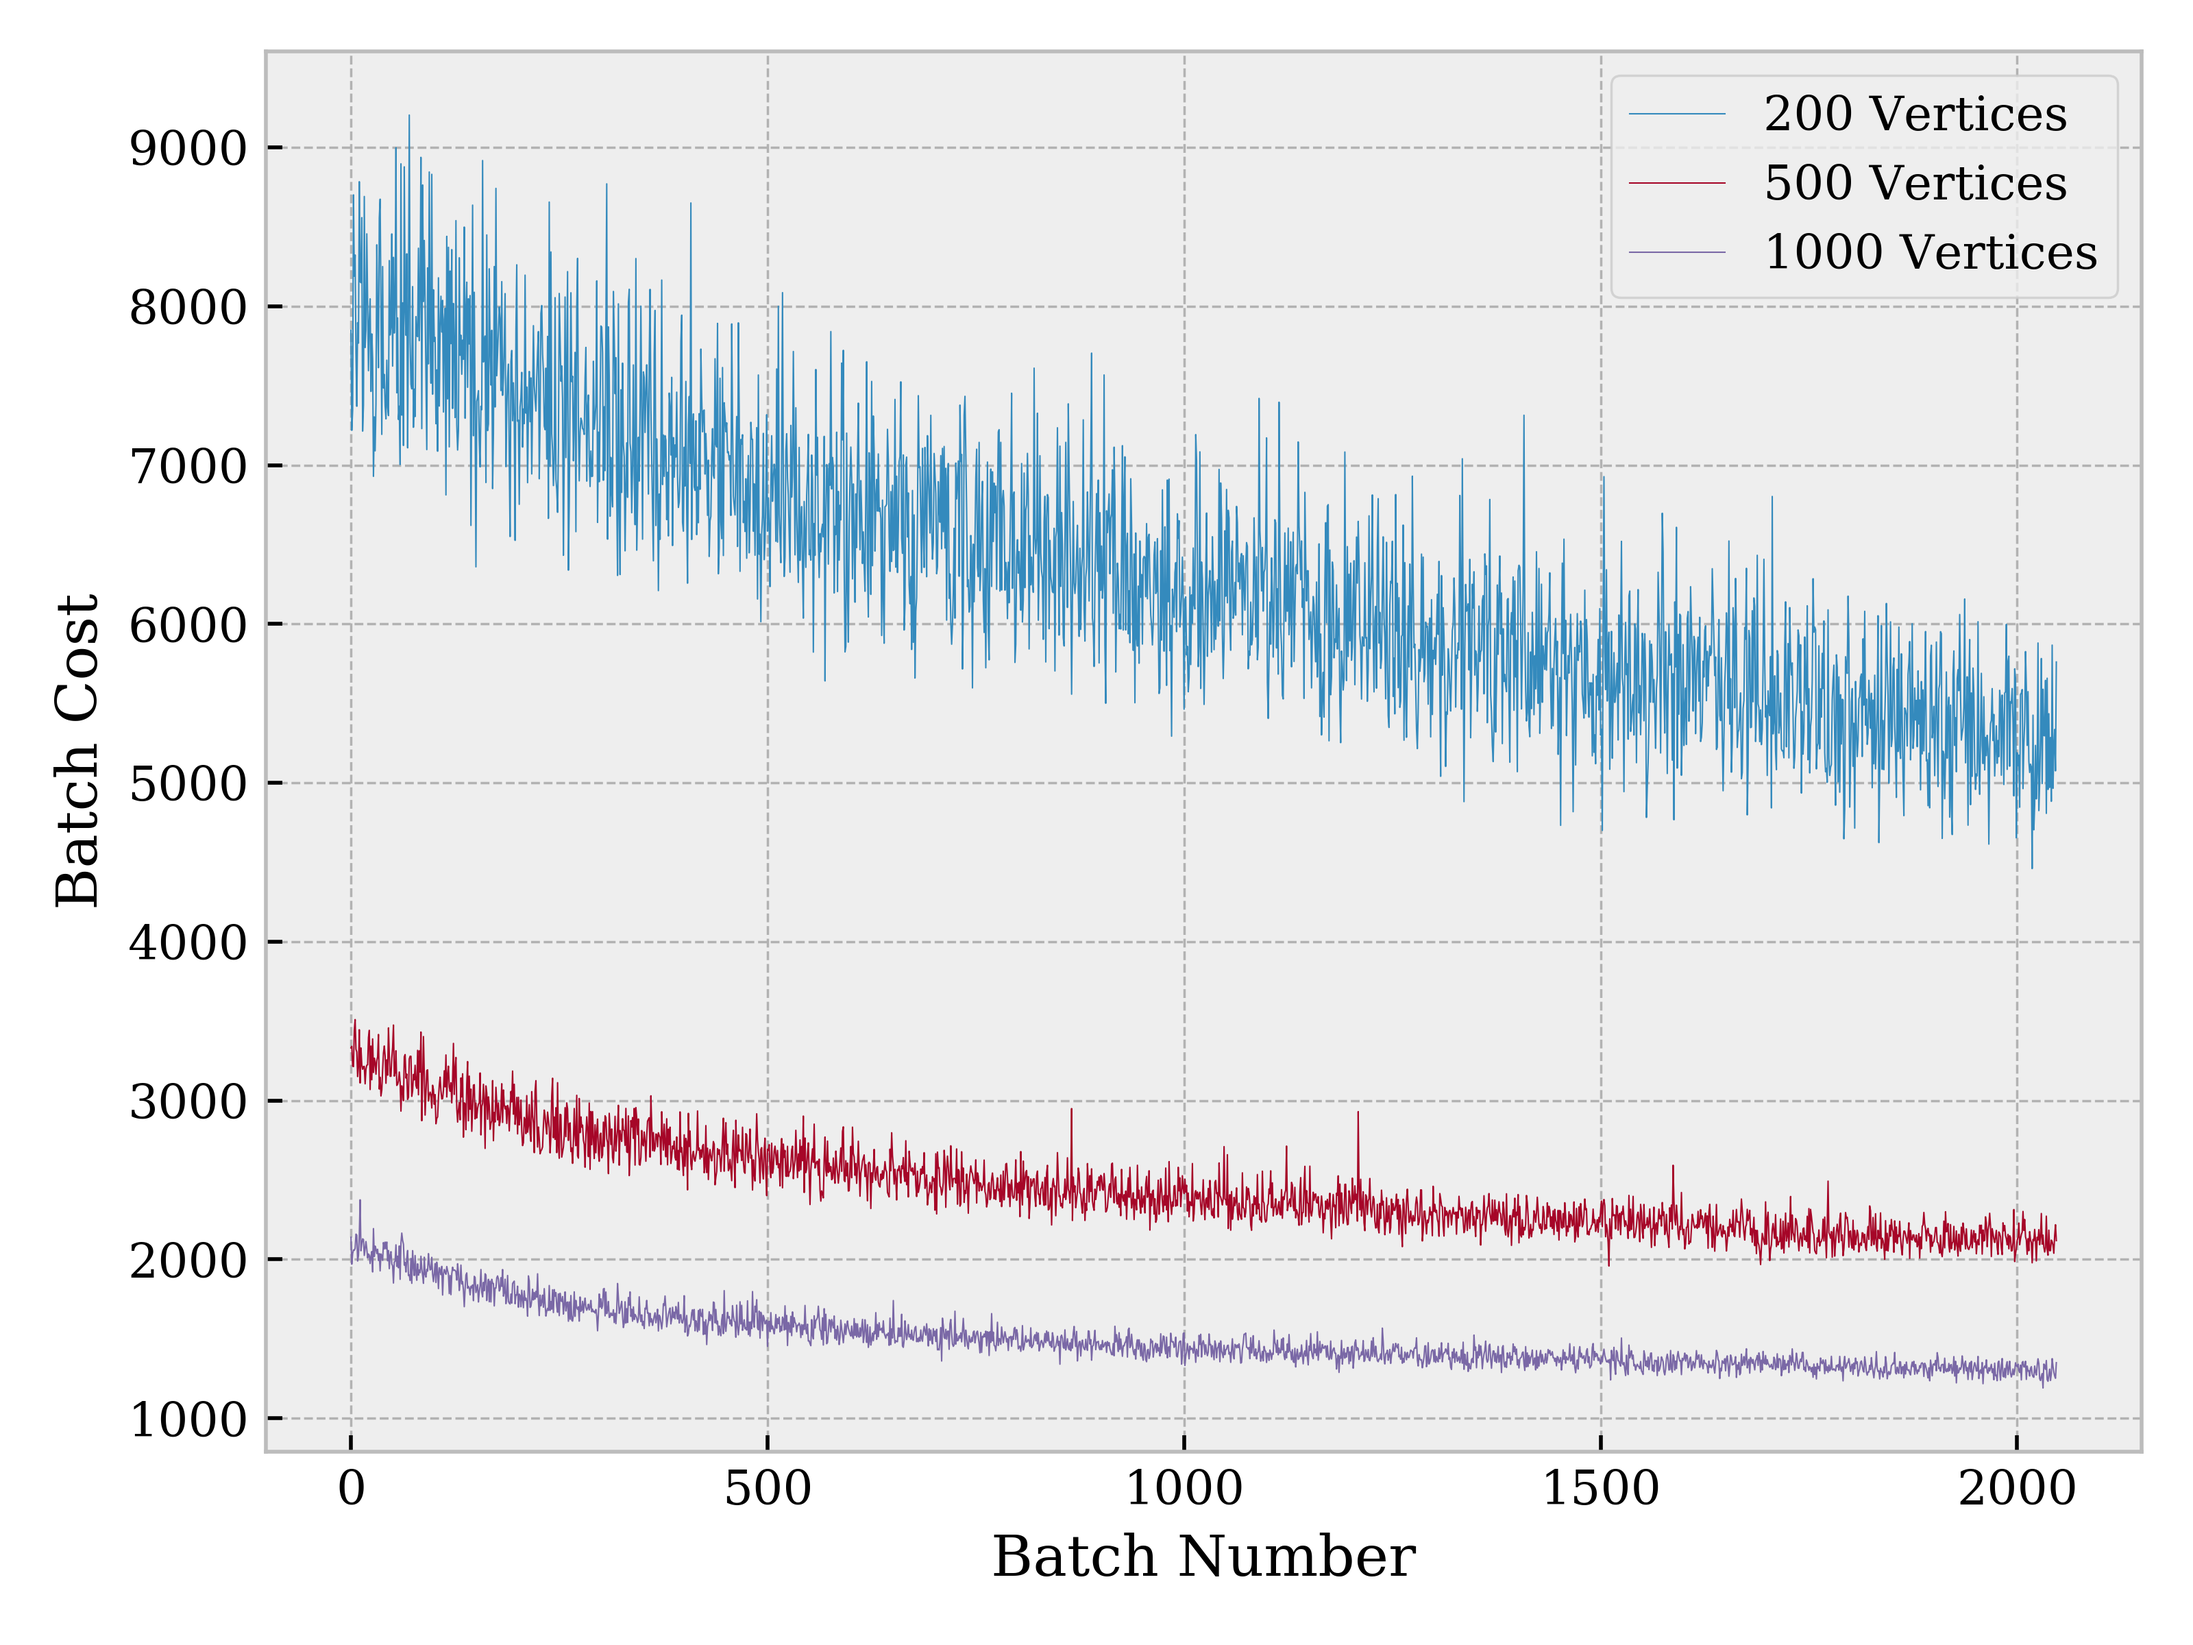
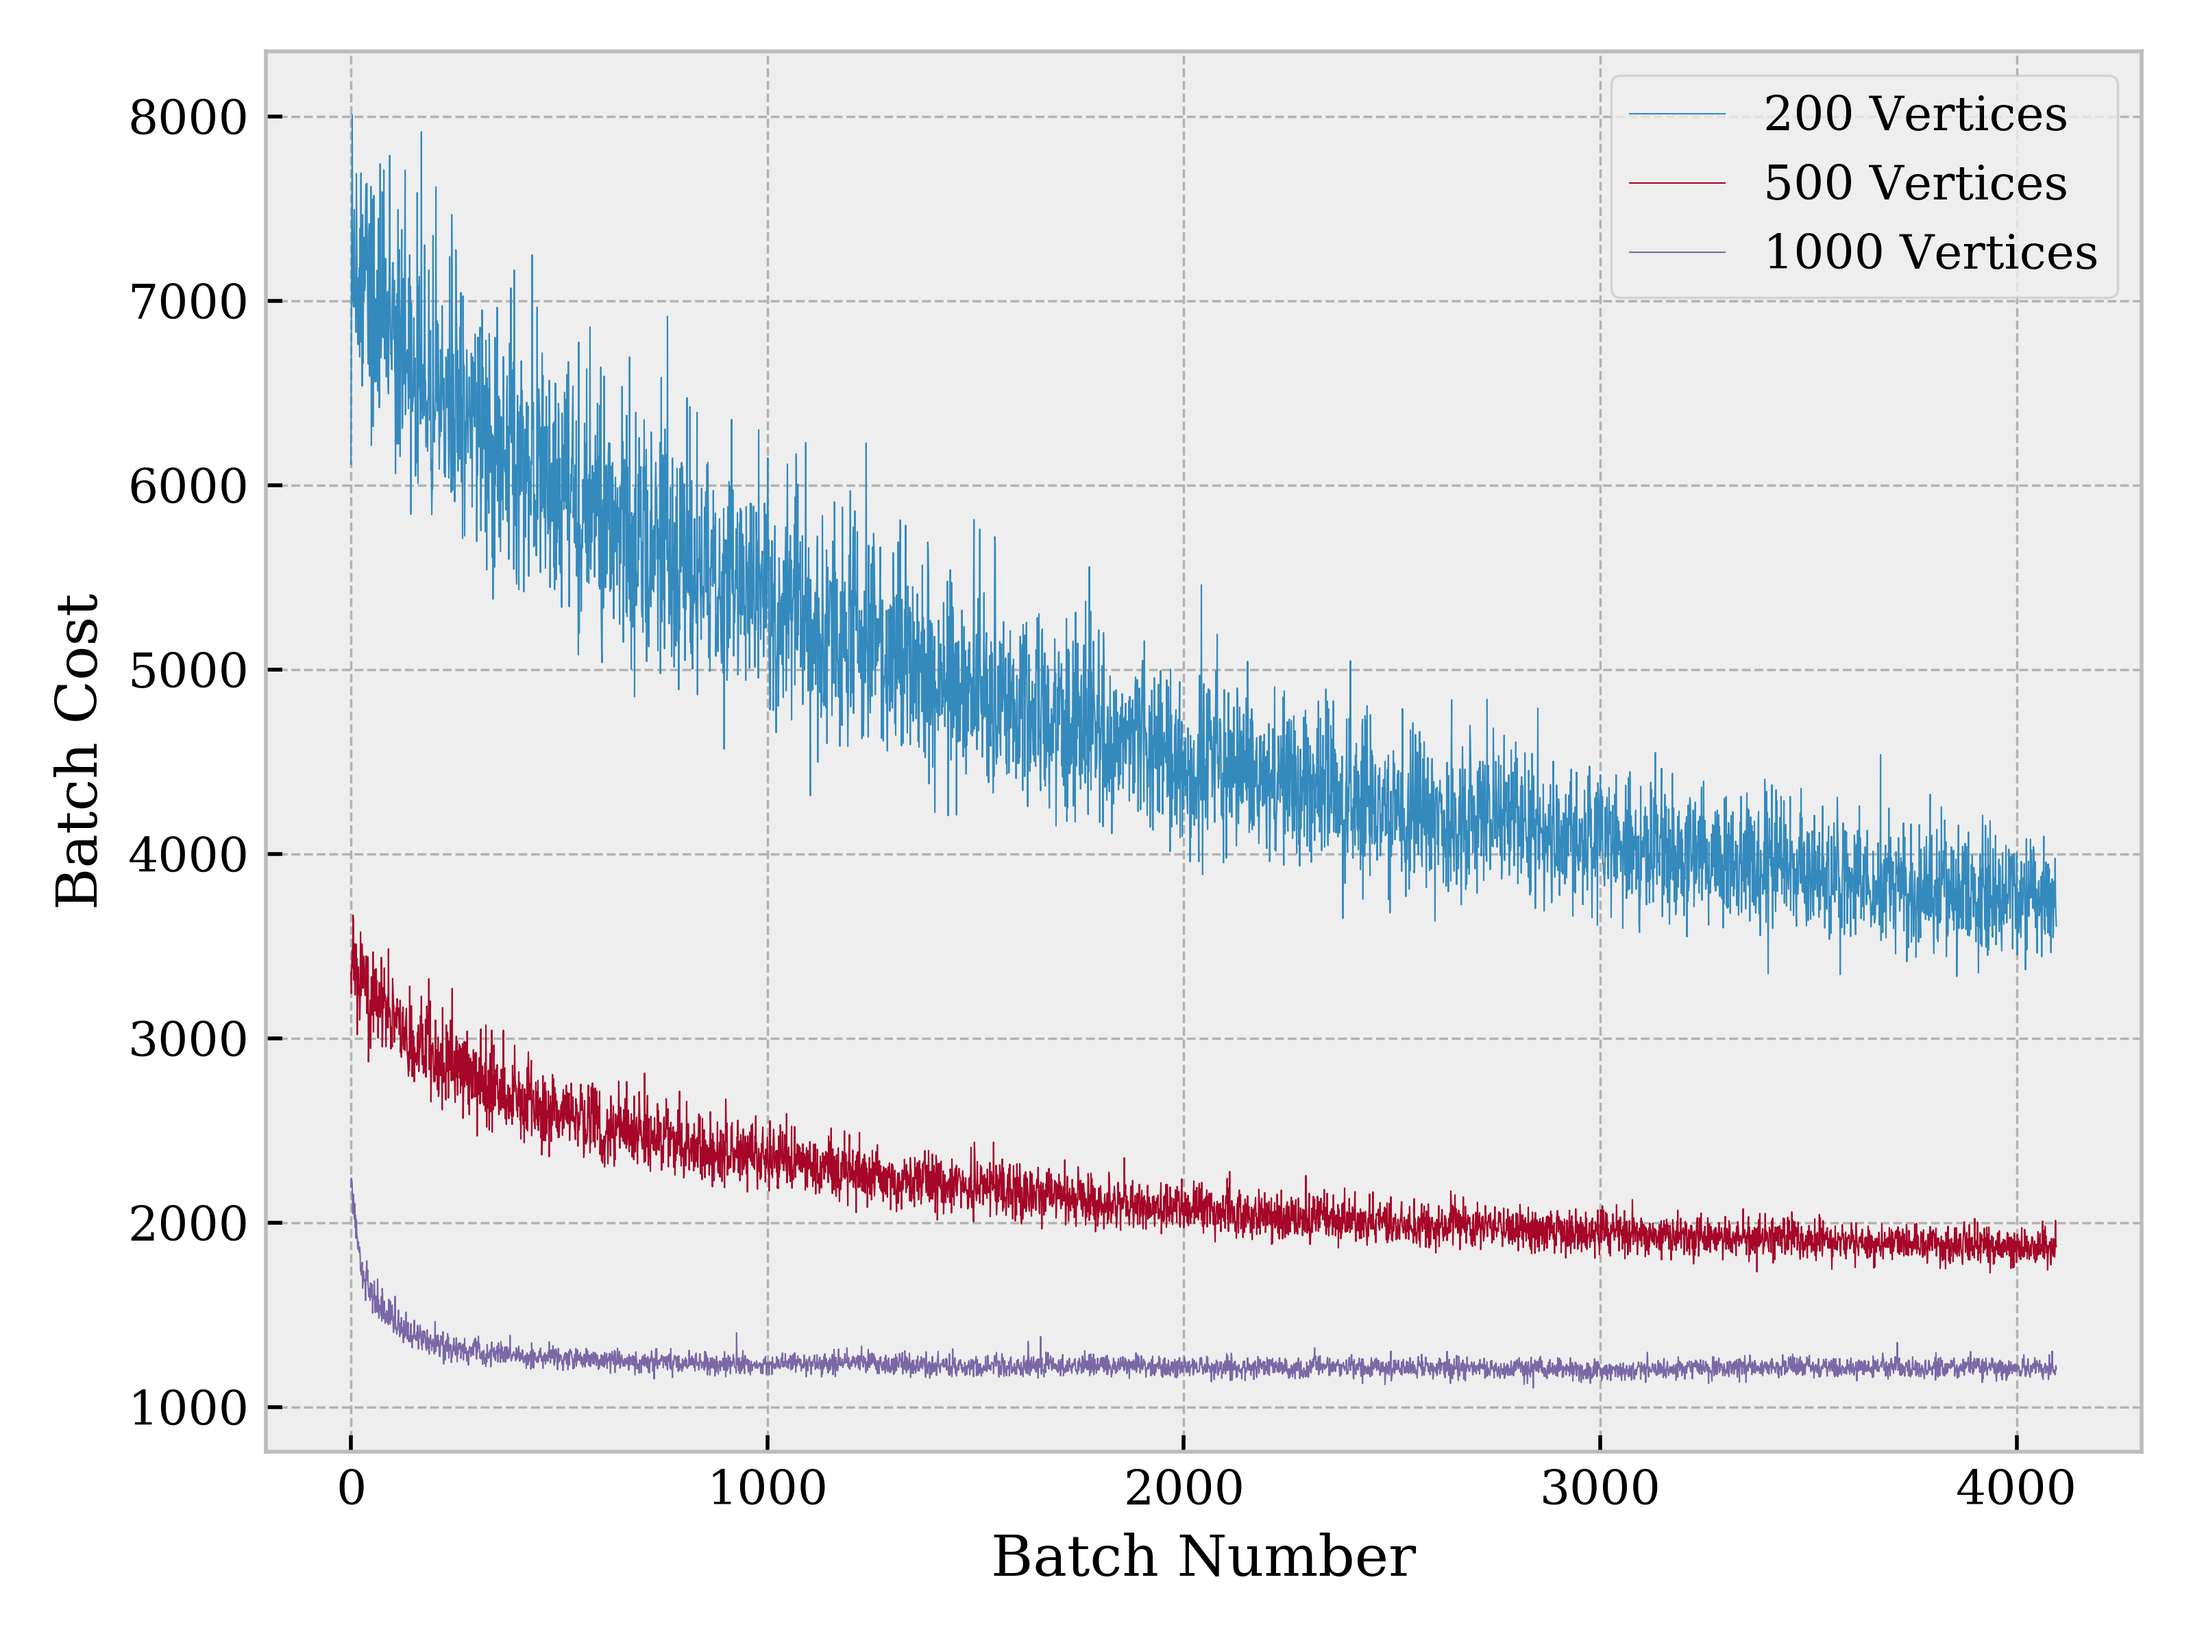
confergence pic

diff --git a/roadmaps/adamsmap/view.py b/roadmaps/adamsmap/view.py
@@ -9,11 +9,11 @@ plt.rcParams["font.family"] = "serif"
 plt.rcParams["savefig.dpi"] = 500
 
 if __name__ == '__main__':
-    res = np.zeros([3, 2048])
+    res = np.zeros([3, 4096])
     i = 0
-    for fname in ["x_200_2048.pkl",
-                  "x_500_2048.pkl",
-                  "x_1000_2048.pkl"]:
+    for fname in ["z_200_4096.pkl",
+                  "z_500_4096.pkl",
+                  "z_1000_4096.pkl"]:
         with open(fname, "rb") as f:
             store = pickle.load(f)
         res[i, :] = store['batchcost']
